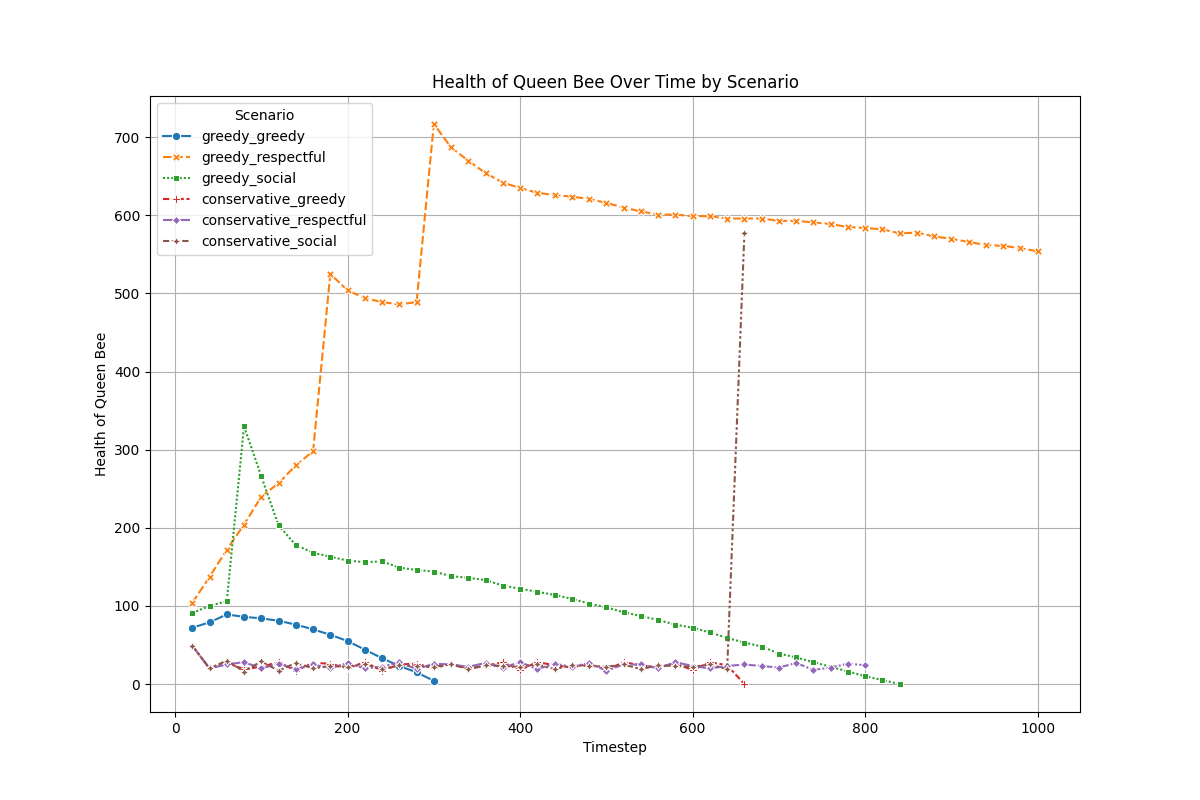
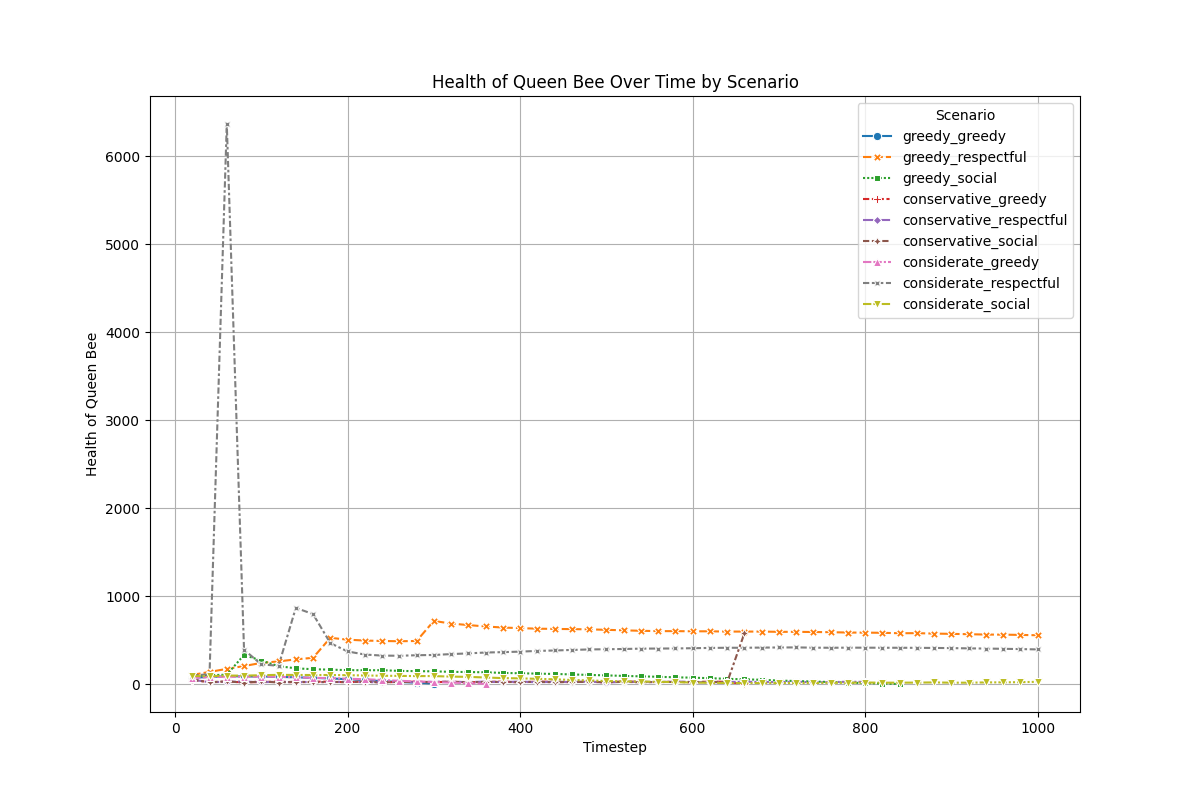
updated images

diff --git a/main.py b/main.py
@@ -129,19 +129,15 @@ def create_scenario(queen_bee_classes, bee_classes, wasp_class) -> BeeColonyEnv:
 def main():
     # scenario: ([queen_bee_class1, queen_bee_class2, ..., queen_bee_classN], [bee_class1, bee_class2, ..., bee_classN], wasp_class, filename)
     scenarios = [
-        ([GreedyQueenBee], [GreedyBee], GreedyWasp, 'data/greedy_greedy.csv'),
-        ([GreedyQueenBee], [RespectfulBee], GreedyWasp, 'data/greedy_respectful.csv'),
-        ([GreedyQueenBee], [SocialBee], GreedyWasp, 'data/greedy_social.csv'),
-        ([ConservativeQueenBee], [GreedyBee], GreedyWasp, 'data/conservative_greedy.csv'),
+        #([GreedyQueenBee], [GreedyBee], GreedyWasp, 'data/greedy_greedy.csv'),
+        #([GreedyQueenBee], [RespectfulBee], GreedyWasp, 'data/greedy_respectful.csv'),
+        #([GreedyQueenBee], [SocialBee], GreedyWasp, 'data/greedy_social.csv'),
+        #([ConservativeQueenBee], [GreedyBee], GreedyWasp, 'data/conservative_greedy.csv'),
         ([ConservativeQueenBee], [SocialBee], GreedyWasp, 'data/conservative_social.csv'),
-        ([ConservativeQueenBee], [RespectfulBee], GreedyWasp, 'data/conservative_respectful.csv'),
-        ([ConsiderateQueenBee], [GreedyBee], GreedyWasp, 'data/considerate_greedy.csv'),
-        ([ConsiderateQueenBee], [SocialBee], GreedyWasp, 'data/considerate_social.csv'),
-        ([ConsiderateQueenBee], [RespectfulBee], GreedyWasp, 'data/considerate_respectful.csv')
-        #([ConsiderateQueenBee, ConsiderateQueenBee], [GreedyBee, GreedyBee], GreedyWasp, 'data/considerate_greedy.csv'),
-        #([ConsiderateQueenBee, ConsiderateQueenBee], [SocialBee, SocialBee], GreedyWasp, 'data/considerate_social.csv'),
-        #([ConsiderateQueenBee, ConsiderateQueenBee], [RespectfulBee, RespectfulBee], GreedyWasp, 'data/considerate_respectful.csv')
-        
+        #([ConservativeQueenBee], [RespectfulBee], GreedyWasp, 'data/conservative_respectful.csv'),
+        #([ConsiderateQueenBee], [GreedyBee], GreedyWasp, 'data/considerate_greedy.csv'),
+        #([ConsiderateQueenBee], [SocialBee], GreedyWasp, 'data/considerate_social.csv'),
+        #([ConsiderateQueenBee], [RespectfulBee], GreedyWasp, 'data/considerate_respectful.csv')
     ]
 
     for queen_bee_classes, bee_classes, wasp_class, filename in scenarios:

diff --git a/plot.py b/plot.py
@@ -4,9 +4,15 @@ import seaborn as sns
 
 # File names
 filenames = [
-    'data/greedy_greedy.csv', 'data/greedy_respectful.csv', 
-    'data/greedy_social.csv', 'data/conservative_greedy.csv', 
-    'data/conservative_respectful.csv', 'data/conservative_social.csv'
+    'data/greedy_greedy.csv', 
+    'data/greedy_respectful.csv', 
+    'data/greedy_social.csv', 
+    'data/conservative_greedy.csv', 
+    'data/conservative_respectful.csv', 
+    'data/conservative_social.csv',
+    'data/considerate_greedy.csv',
+    'data/considerate_respectful.csv',
+    'data/considerate_social.csv'
 ]
 
 # Read each file and add a scenario label
